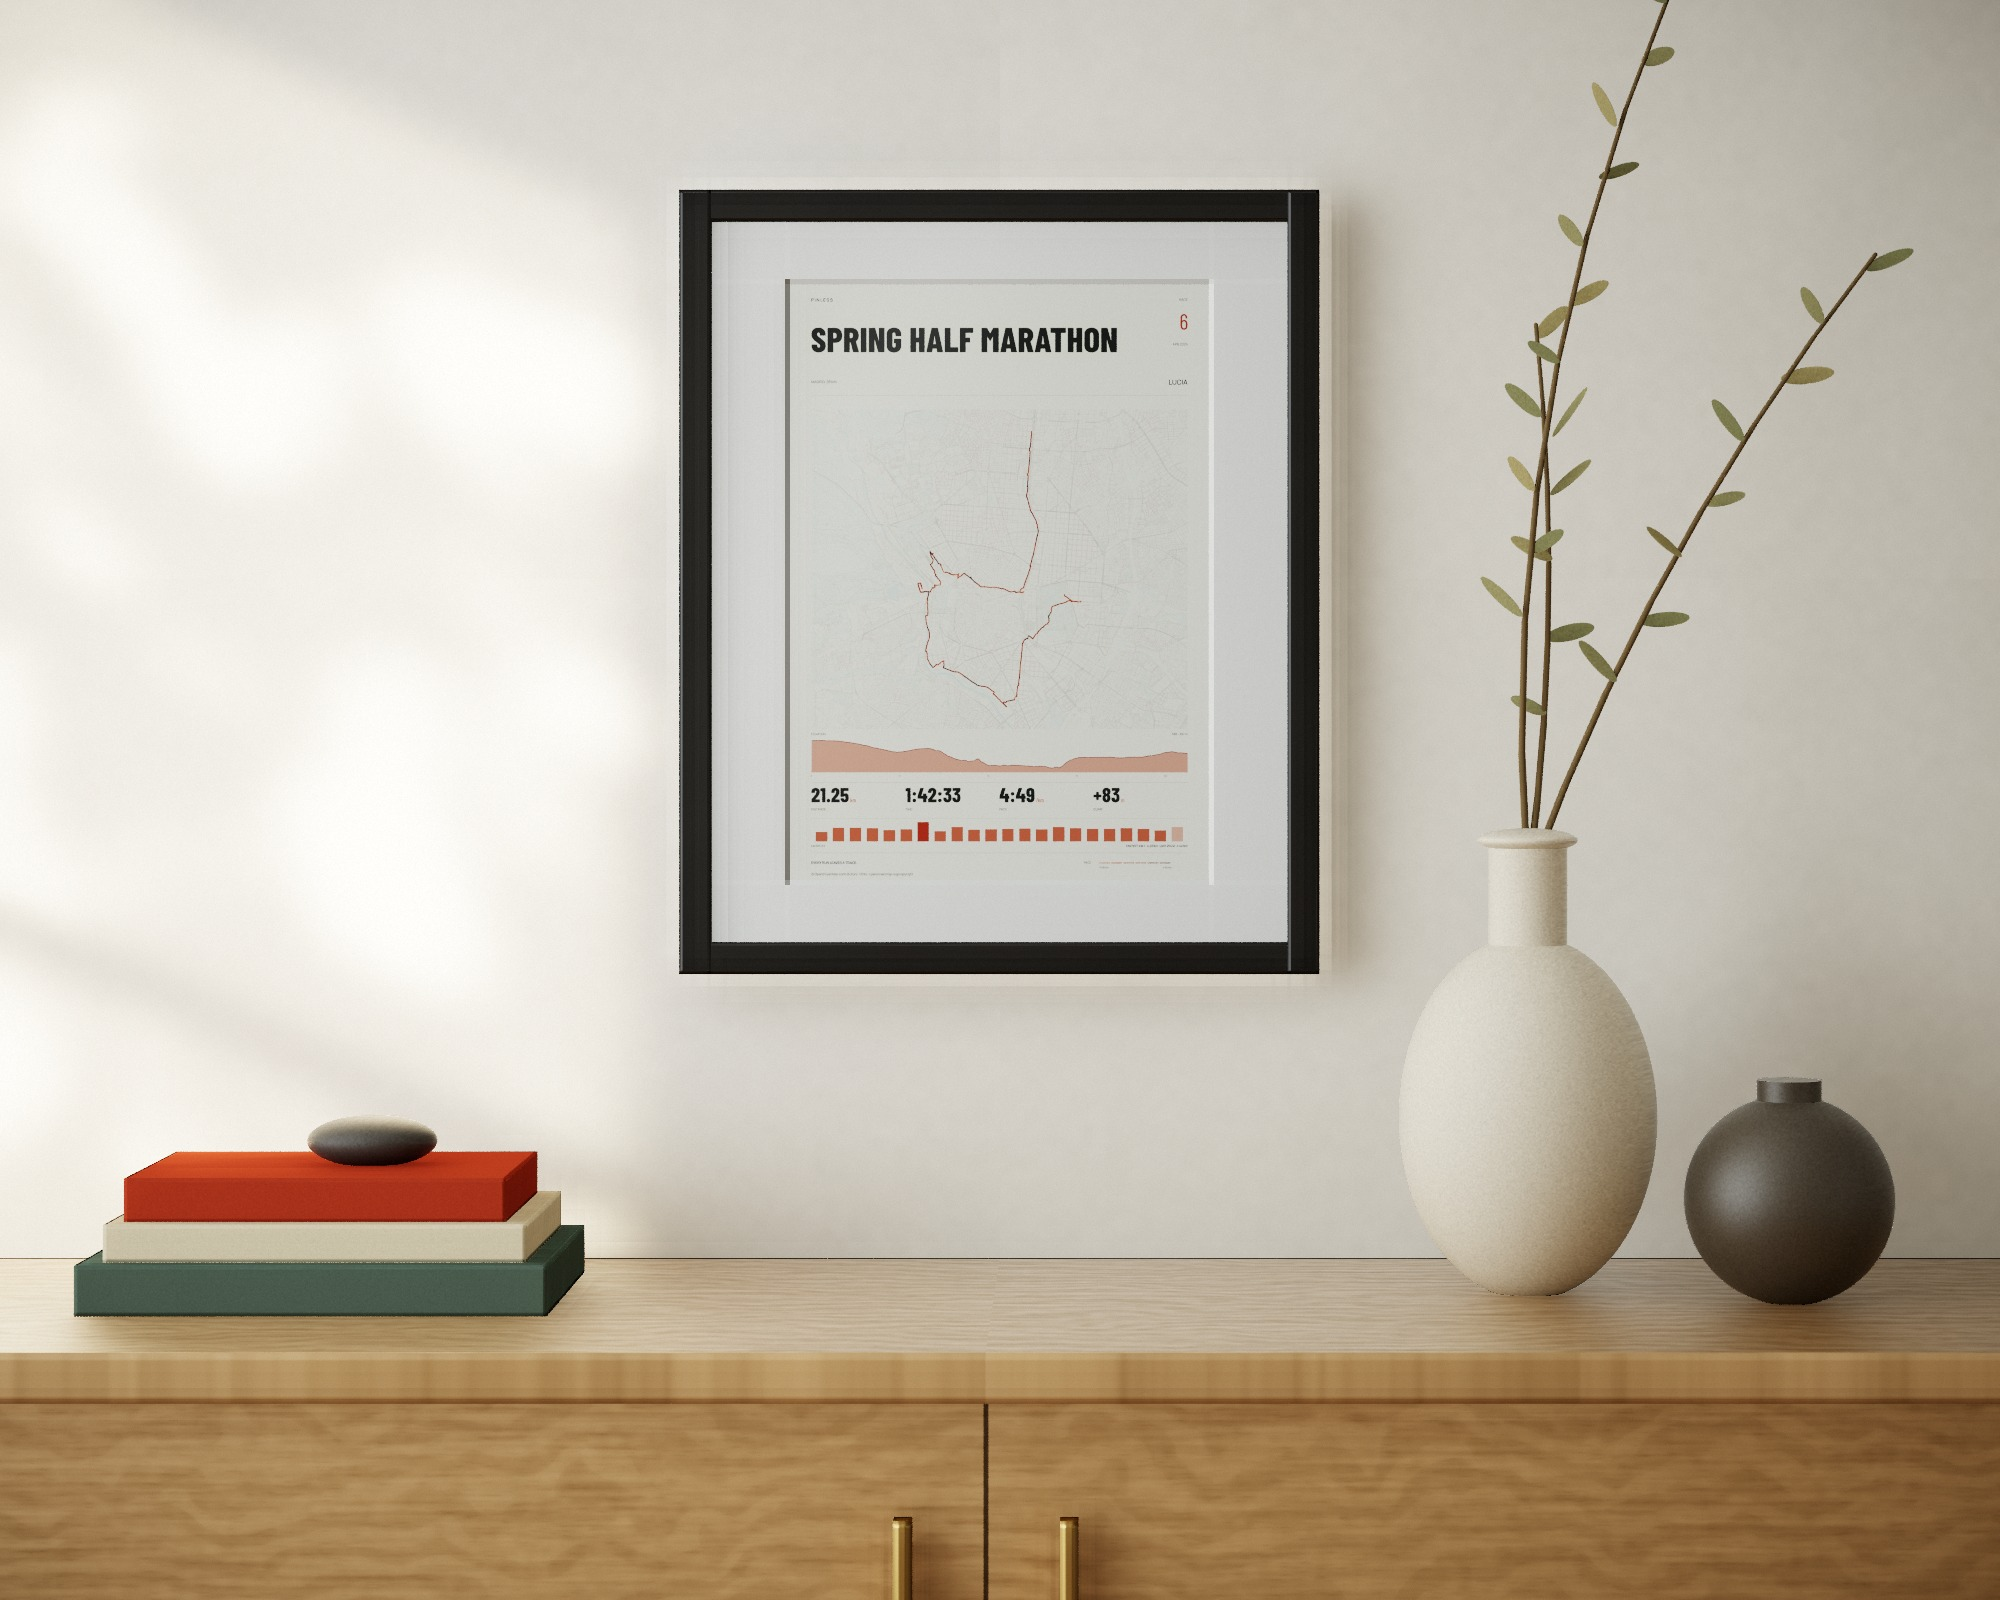
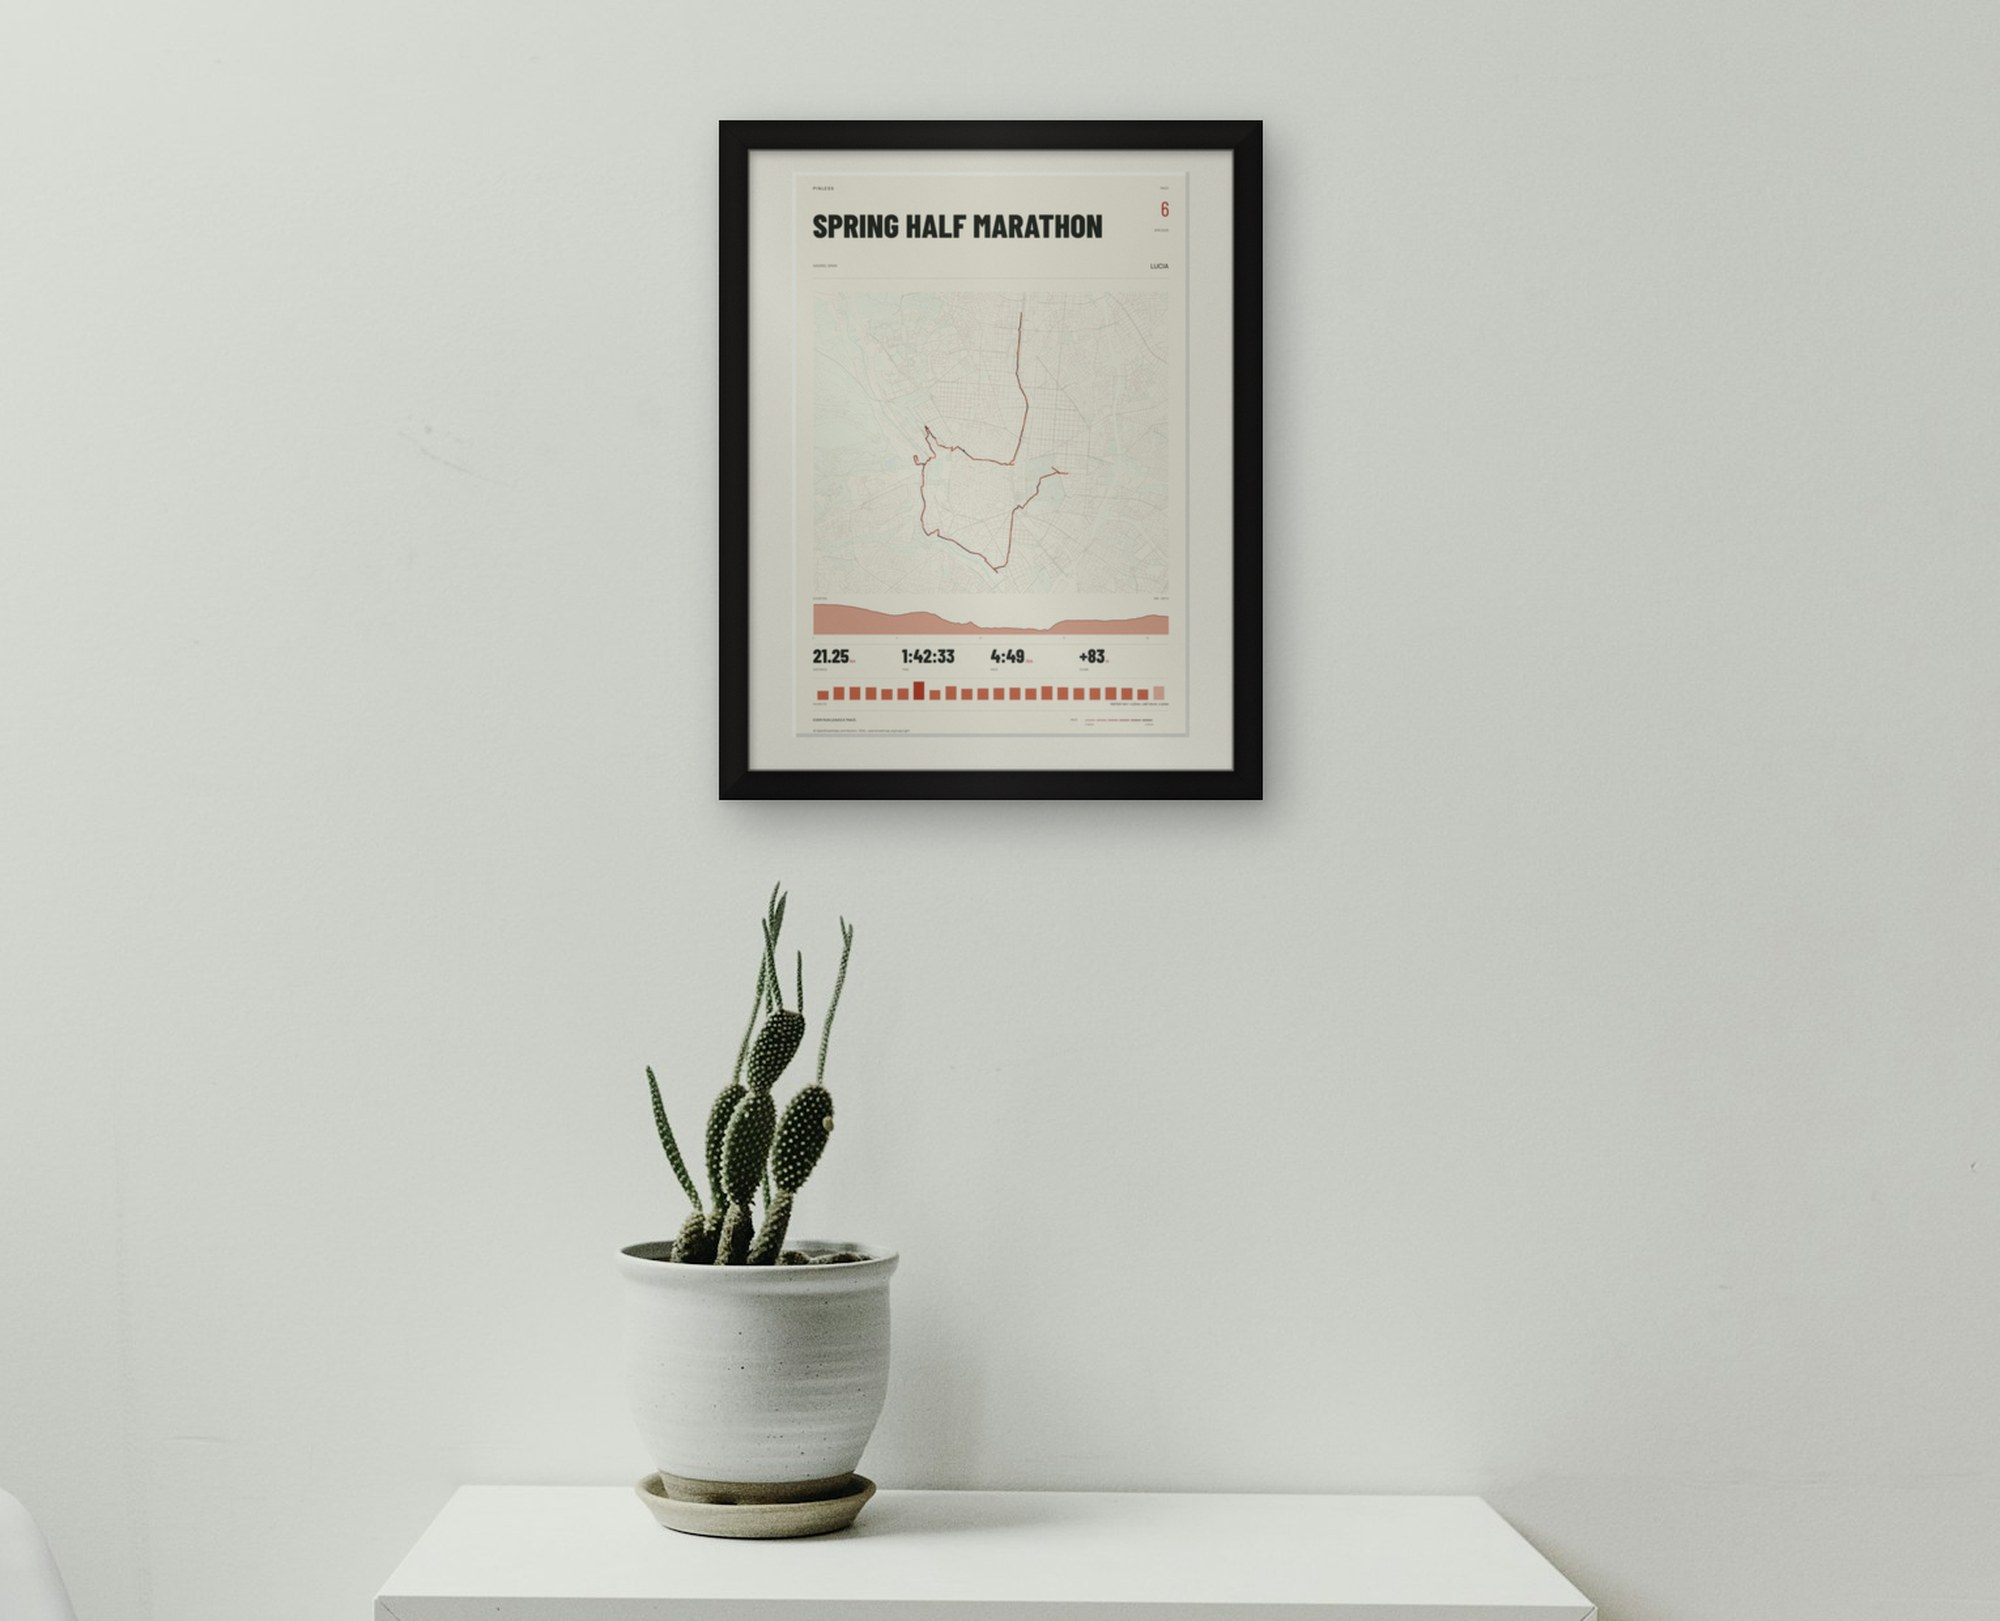
README walls: real room photos, with oak, walnut, natural, white, black and brass frames
The seven wall images now hang the posters in Unsplash room photos (tools/mockup_photo.py, credited in tools/rooms/CREDITS.md). The captions and alt texts say which photo and which frame. The modelled-room renderer stays for A3 or 50x70 when no photo fits.

diff --git a/tools/mockup_photo.py b/tools/mockup_photo.py
@@ -34,14 +34,16 @@ WINDOW_CM = (28.7, 41.0)  # the mat's window: an A3 print with 5 mm under the ma
 # the scenes: frames as (centre x, top y, frame height in px), light direction (towards the shadow), shadow strength,
 # glass glare, a final crop (x0, y0, x1, y1)
 SCENES = {
-    "sofa": {"photo": "sofa.jpg", "frames": [(1225, 118, 455)], "light": (0.35, 0.55), "shadow": 0.42,
-             "glare": 0.05, "crop": (180, 0, 2280, 1582)},
+    "sofa": {"photo": "sofa.jpg", "frames": [(1225, 70, 520)], "light": (0.35, 0.55), "shadow": 0.42,
+             "glare": 0.05, "crop": (560, 0, 1900, 1080)},
     "dusk": {"photo": "dusk.jpg", "frames": [(1180, 38, 600)], "light": (-0.75, 0.45), "shadow": 0.55,
-             "glare": 0.035, "crop": (150, 0, 2250, 1600)},
+             "glare": 0.035, "crop": (520, 0, 1860, 1060)},
     "nordic": {"photo": "nordic.jpg", "frames": [(1318, 92, 520)], "light": (0.45, 0.6), "shadow": 0.30,
-               "glare": 0.04, "crop": (200, 0, 2400, 1600)},
+               "glare": 0.04, "crop": (560, 0, 2090, 1240)},
     "sunny": {"photo": "sunny.jpg", "frames": [(1150, 520, 400), (1530, 520, 400)], "light": (-0.65, 0.4),
-              "shadow": 0.38, "glare": 0.06, "crop": (300, 160, 2400, 1600)},
+              "shadow": 0.38, "glare": 0.06, "crop": (640, 330, 2140, 1430)},
+    "sunny_one": {"photo": "sunny.jpg", "frames": [(1350, 470, 480)], "light": (-0.65, 0.4), "shadow": 0.38,
+                  "glare": 0.06, "crop": (700, 330, 2000, 1290)},
 }
 
 

diff --git a/tools/mockup.py b/tools/mockup.py
@@ -8,7 +8,7 @@ numpy, in parallel bands; the noise of the light is filtered apart from the text
 image is developed as a camera would: exposure, a filmic curve, a slight vignette and grain.
 
 A3 goes in a standard 40x50 cm frame with a mat; 50x70 in a 50x70 frame without one.
-Usage: python tools/mockup.py docs/poster-huella.jpg docs/wall-huella.jpg --frame oak [--spp 64]
+Usage: python tools/mockup.py docs/poster-huella.jpg out/room-huella.jpg --frame oak [--spp 64]
 """
 import argparse
 import math

diff --git a/README.md b/README.md
@@ -3,10 +3,10 @@
 **Your year of running as a print-ready poster of your city. From your Strava export, on your own computer, without showing where you live.**
 
 <p align="center">
-  <img src="docs/wall-huella.jpg" width="49%" alt="The warm paper poster of a year of runs in Madrid, framed in oak on a wall above an oak sideboard, books and two stoneware vases, in the dappled light of a window">
-  <img src="docs/wall-carbon.jpg" width="49%" alt="The same poster in the dark carbon style, in a black frame">
+  <img src="docs/wall-huella.jpg" width="49%" alt="The warm paper poster of a year of runs in Madrid, framed in oak above a cream sofa in a bright room">
+  <img src="docs/wall-carbon.jpg" width="49%" alt="The same poster in the dark carbon style, in a brass frame above a corduroy sofa in warm evening light">
 </p>
-<p align="center"><sub>A3 prints in standard 40x50 cm frames, rendered to scale in a modelled room lit by a window (<code>tools/mockup.py</code>, a small path tracer), not photographs. Demo posters made from a synthetic runner (<code>tools/simulate_runner.py</code>), not from a real person.</sub></p>
+<p align="center"><sub>A3 prints in 40x50 cm frames hung in real room photos (<code>tools/mockup_photo.py</code>; photos from Unsplash, credited in <a href="tools/rooms/CREDITS.md">tools/rooms/CREDITS.md</a>). Demo posters made from a synthetic runner (<code>tools/simulate_runner.py</code>), not from a real person.</sub></p>
 
 ```bash
 pip install https://github.com/Lostmanu/pinless/archive/refs/heads/main.zip
@@ -76,7 +76,7 @@ The line weight always grows with how often you ran a street; `--color-by` decid
 
 <p align="center">
   <img src="docs/atlas-huella.jpg" width="40%" alt="Atlas of six cities run in one year: Madrid, Lisbon, Paris, Rome, Valencia and Zurich">
-  <img src="docs/wall-atlas.jpg" width="58%" alt="The atlas framed in oak on a wall above an oak sideboard">
+  <img src="docs/wall-atlas.jpg" width="58%" alt="The atlas in a walnut frame above a built-in sofa in a sunny living room">
 </p>
 <p align="center"><sub>Demo atlas from the synthetic runner with trips (<code>tools/simulate_trips.py</code>); try it with <code>pinless demo/strava_export_atlas_demo.zip --layout atlas</code>.</sub></p>
 
@@ -90,7 +90,7 @@ One small map per city on the same print: the city where you ran most comes firs
 
 <p align="center">
   <img src="docs/race.jpg" width="40%" alt="Finisher print of a half marathon in Madrid with its elevation profile, time, pace and kilometre splits">
-  <img src="docs/wall-race.jpg" width="58%" alt="The race print in a black frame on a wall above an oak sideboard">
+  <img src="docs/wall-race.jpg" width="58%" alt="The race print in a black frame above a white cabinet with a cactus">
 </p>
 
 ```bash
@@ -113,10 +113,10 @@ A run that starts or ends at one of your private places (a long run from home) i
   <img src="docs/trail-coast.jpg" width="32%" alt="Trail print in the ocean style of the Ponta de Sao Lourenco on Madeira: the long green peninsula between two seas with its cliffs in relief and contour lines, the route in deep blue out to the Casa do Sardinha and back, the elevation profile and the route numbers">
 </p>
 <p align="center">
-  <img src="docs/wall-trail.jpg" width="49%" alt="The Penalara trail print in an oak frame on a wall above an oak sideboard, in the dappled light of a window">
-  <img src="docs/wall-trail-white.jpg" width="49%" alt="The Lac Blanc trail print in the dark midnight style, in a white frame on the same wall">
+  <img src="docs/wall-trail.jpg" width="49%" alt="The Tre Cime di Lavaredo print in a natural wood frame and the Ponta de Sao Lourenco print in a white frame, side by side above a sunny sofa">
+  <img src="docs/wall-trail-white.jpg" width="49%" alt="The Lac Blanc trail print in the dark midnight style, in a white frame above a cream sofa">
 </p>
-<p align="center"><sub>Demo routes: synthetic hikes on real OpenStreetMap paths, with heights from the Copernicus elevation model (<code>tools/simulate_hike.py</code>), not a real person's walks. Peñalara and Tabernas in Spain and the Tre Cime di Lavaredo in the Dolomites in the default style, Lac Blanc above Chamonix in the midnight style and the Ponta de São Lourenço on Madeira in the ocean style. Peñalara framed in oak and Lac Blanc in white, rendered to scale in a modelled room (<code>tools/mockup.py</code>), not photographs.</sub></p>
+<p align="center"><sub>Demo routes: synthetic hikes on real OpenStreetMap paths, with heights from the Copernicus elevation model (<code>tools/simulate_hike.py</code>), not a real person's walks. Peñalara and Tabernas in Spain and the Tre Cime di Lavaredo in the Dolomites in the default style, Lac Blanc above Chamonix in the midnight style and the Ponta de São Lourenço on Madeira in the ocean style. Tre Cime in natural wood, Madeira and Lac Blanc in white, hung in real room photos (<code>tools/mockup_photo.py</code>).</sub></p>
 
 Try the demo routes:
 
@@ -147,7 +147,7 @@ The privacy rules are the race print's, with your private places learned from ev
 
 <p align="center">
   <img src="docs/couple-huella.jpg" width="40%" alt="Poster of two runners' year in Madrid: Lucia's streets in red, Marcos's in blue, the streets they share in black">
-  <img src="docs/wall-couple.jpg" width="58%" alt="The poster for two framed in oak on a wall above an oak sideboard">
+  <img src="docs/wall-couple.jpg" width="58%" alt="The poster for two in an oak frame above a corduroy sofa in warm evening light">
 </p>
 <p align="center"><sub>Demo poster from two synthetic runners (<code>tools/simulate_runner.py</code>); try it with <code>pinless demo/strava_export_madrid_demo.zip --with demo/strava_export_madrid_partner_demo.zip --name Lucia --with-name Marcos</code>.</sub></p>
 
@@ -297,6 +297,8 @@ The tool keeps off the via ferratas that OpenStreetMap's walk network includes (
 The tests run offline. The street statistics use `tests/data/madrid_streets.json.gz`, a small extract of the named OpenStreetMap streets around the demo runs (ODbL). `tools/make_street_fixture.py` rebuilds it from the full Madrid graph, and its `--check` option confirms that it gives the same street counts as the full graph.
 
 ## Credits and license
+
+The wall mockups hang the posters in real room photos from Unsplash, used under the Unsplash License; the photographers are named in `tools/rooms/CREDITS.md`. `tools/mockup.py` renders the frames instead in a modelled room, A3 or 50x70, when no photo fits.
 
 Map data © OpenStreetMap contributors, available under the ODbL; every poster carries the attribution, and so does every demo hike in `demo/`, whose line follows OpenStreetMap paths. Fonts: Barlow Condensed and Manrope, SIL Open Font License 1.1 (`pinless/fonts`). Code: MIT.
 
